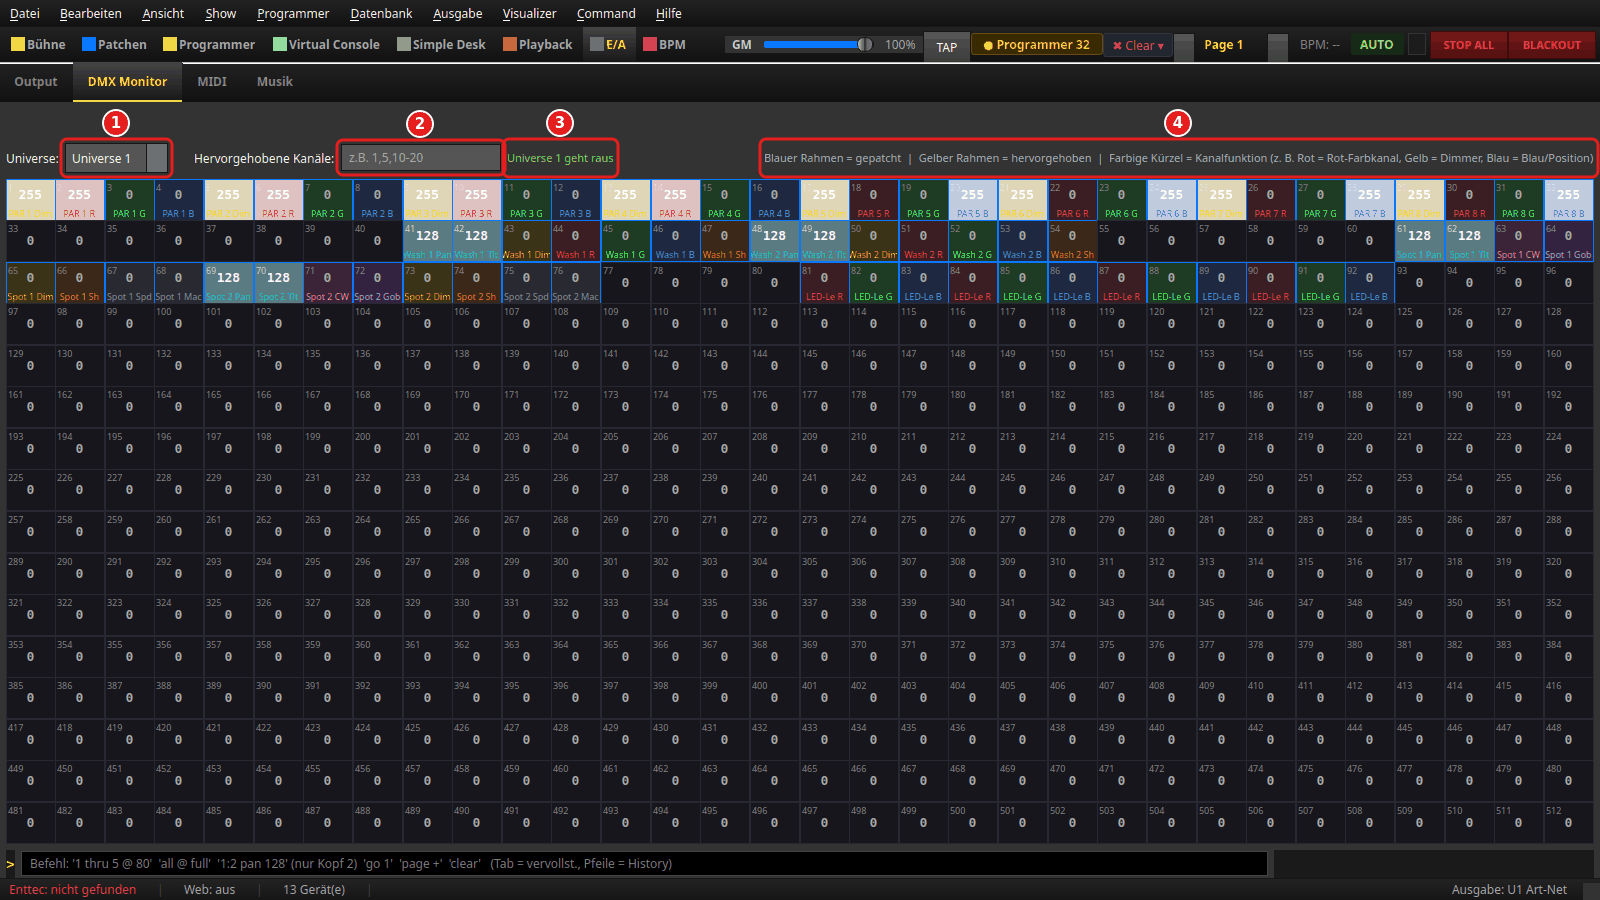
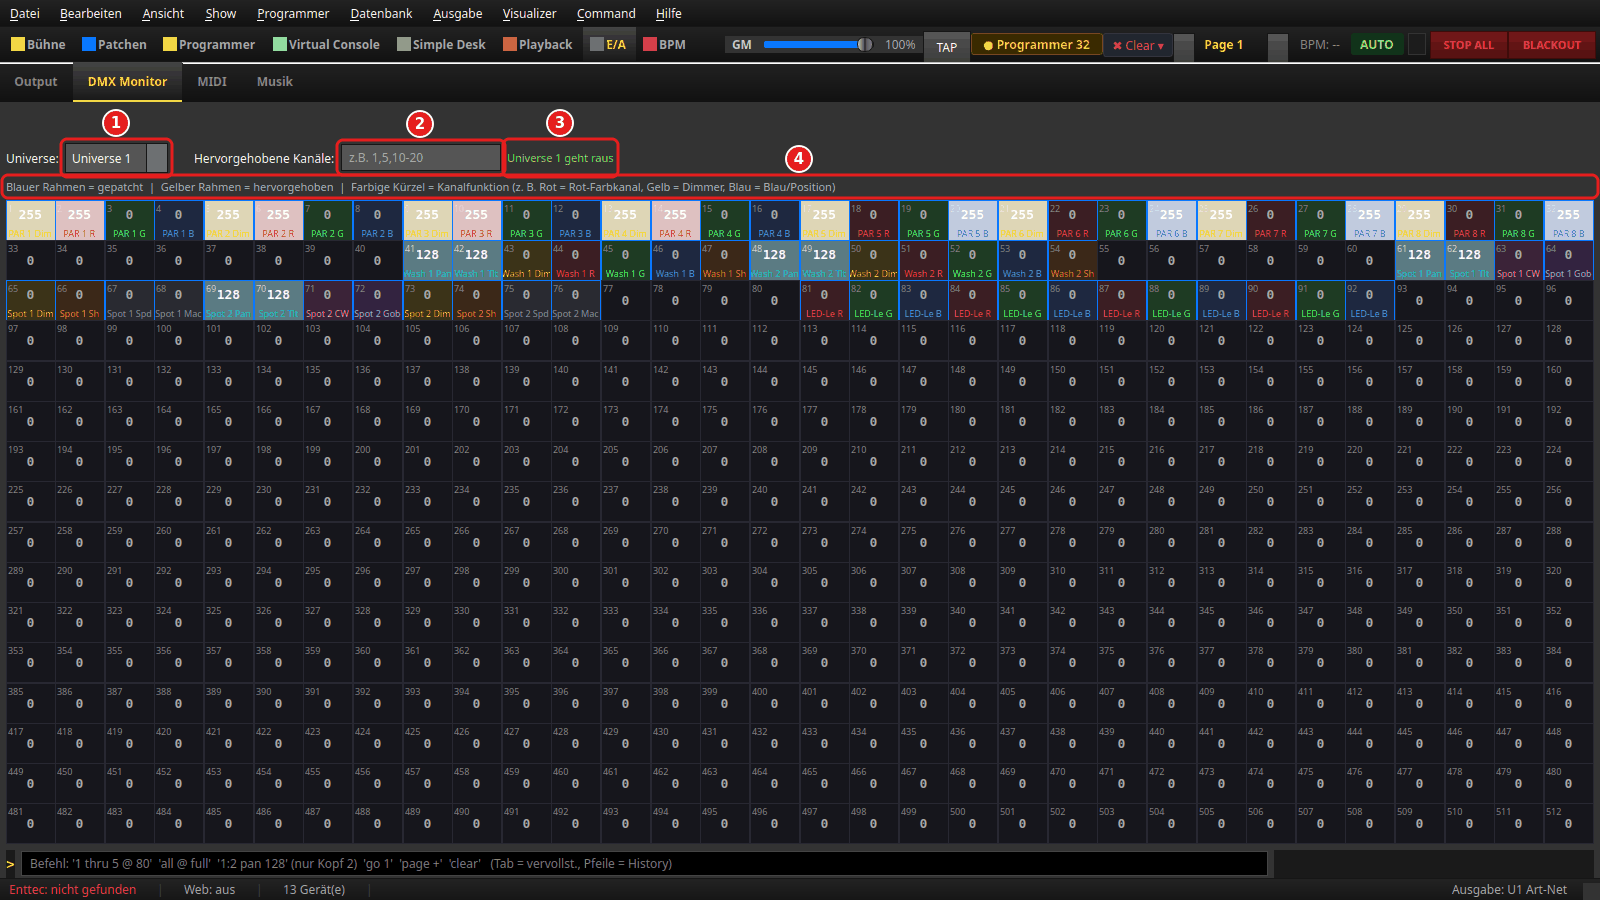
docs: veraltete Anleitungsbilder aufgefrischt, VC-Uebersicht mit allen 19 Widgets (DOC-22, DOC-14)
Teil 1 — Anleitungsbilder (tools/anleitungsbilder.py, offscreen, je Anleitung
einzeln gerendert; alt gegen neu verglichen):
- ausgabe_einrichten/07, 08: DMX-Monitor-Legende steht in eigener Zeile
  (UI-64), im alten Bild war sie rechts abgeschnitten.
- programmer_grundlagen/05, 07, 09, 11: Namen in der Lampen-Vorschau mit
  Kontrastfarbe (UI-63); lag unter der Unveraendert-Schwelle.
- projektseite/03: ehrliche Lampen-Vorschau (RGB-Washes ohne Farbe dunkel,
  UI-63); 05: GO-Taste beschriftet (UI-64); 07: 2D-Buehne ohne
  ueberlappende Beschriftungen (UI-64).
- szenen_cues/01-10: GO-Taste beschriftet, neuer Leer-Hinweis der
  Cueliste (UI-64); die alten Bilder trugen ausserdem Zustand aus einem
  --alle-Lauf (BPM 128,0, Wiederholen aktiv), jetzt einheitlich mit 11/12.
- szenen_cues/ANLEITUNG.md: Show -> Cue aufnehmen (R) nimmt seit UI-62
  in die gewaehlte Cueliste auf, nicht mehr immer in die erste.

Teil 2 — DOC-14 Rest: Uebersichtsbild der VC-Widget-Referenz ueber
build_vc_widgets_showcase.py -> capture_vc_widgets.py -> crop_vc_widgets.py
offscreen neu aufgenommen (nur die Uebersicht uebernommen, Einzelbilder
unveraendert); zeigt jetzt alle 19 Typen, Bildunterschrift wieder „alle 19".

diff --git a/docs/anleitung_szenen_cues/ANLEITUNG.md b/docs/anleitung_szenen_cues/ANLEITUNG.md
@@ -163,8 +163,8 @@ Eine Cue speichert alle Werte, die gerade im Programmer stehen, unabhängig von 
 Auswahl. Löschst du zwischen den Cues nicht, trägt die nächste Cue die alten Werte mit.
 
 Über das Menü **Show → Cue aufnehmen** (Taste **R**) geht es auch ohne Playback-Seite.
-Achtung: Das nimmt immer in die **erste** Cueliste der Show auf, nicht in die gerade
-gewählte.
+Das nimmt in die Cueliste auf, die auf der Playback-Seite gewählt ist. Ist keine
+gewählt, landet die Cue in der **ersten** Cueliste der Show.
 
 ## 8. Die Cueliste auf einen Executor legen
 
@@ -262,7 +262,7 @@ Alle Einstellungen im Detail:
 | Leertaste, `go`, Tablet oder OSC: kein Licht | Die Cueliste liegt auf keinem Executor (diese Wege legen sie nicht automatisch hin) | Schritt 8: im Executor „— Leer —“ die Cueliste wählen oder einmal **GO** auf der Playback-Seite |
 | Die Cues wirken nicht, das Licht bleibt wie eingestellt | Der Programmer hat Vorrang | **Esc** bzw. **Alles löschen** |
 | Cue 2 enthält noch Werte aus Cue 1 | Zwischen den Aufnahmen nicht gelöscht | vor jeder Aufnahme **Alles löschen**, dann neu aufnehmen |
-| **R** hat in die falsche Cueliste aufgenommen | **Show → Cue aufnehmen** nimmt immer in die erste Cueliste auf | in **Playback** mit **+ Cue aufnehmen** aufnehmen |
+| **R** hat in die falsche Cueliste aufgenommen | **Show → Cue aufnehmen** nimmt in die auf der Playback-Seite gewählte Cueliste auf (ohne Wahl: die erste) | vorher in **Playback** im Feld **Cueliste:** die richtige wählen |
 | Die VC-Cueliste bleibt leer | Falscher **Executor-Slot** (zählt ab 0) oder andere Page | Slot = Ex-Nummer − 1, Page prüfen |
 | Ein Snap speichert zu wenig | Nur die **gewählten** Geräte kommen hinein | vor **Speichern** alle betroffenen Geräte wählen |
 | Die Szene läuft, ist aber nicht zu sehen | Programmer-Werte liegen darüber | **Alles löschen** |

diff --git a/docs/anleitung_vc_widgets/README.md b/docs/anleitung_vc_widgets/README.md
@@ -10,11 +10,10 @@ echten Screenshots aus der App.
 
 ![Übersicht der VC-Widgets](img/uebersicht_alle_widgets.png)
 
-> Diese Übersicht stammt aus der Vorlage-Show `shows/VC_Widgets_Showcase.lshow`
-> (Generator: `tools/build_vc_widgets_showcase.py`). Die Vorlage-Show legt inzwischen
-> **alle 19** Widget-Typen beschriftet ab; das Bild hier ist noch die ältere Aufnahme mit
-> **17** davon — **Tempo-Controller** und **Live-Edit-Panel** fehlen darauf noch. Beide sind
-> unten einzeln beschrieben ([22](22_tempo_controller.md), [23](23_live_edit.md)).
+> Diese Übersicht zeigt **alle 19** Widget-Typen, jeweils beschriftet. Sie stammt aus der
+> Vorlage-Show `shows/VC_Widgets_Showcase.lshow` (Generator:
+> `tools/build_vc_widgets_showcase.py`). **Tempo-Controller** und **Live-Edit-Panel** stehen
+> unten rechts; beschrieben sind sie in [22](22_tempo_controller.md) und [23](23_live_edit.md).
 
 ---
 
